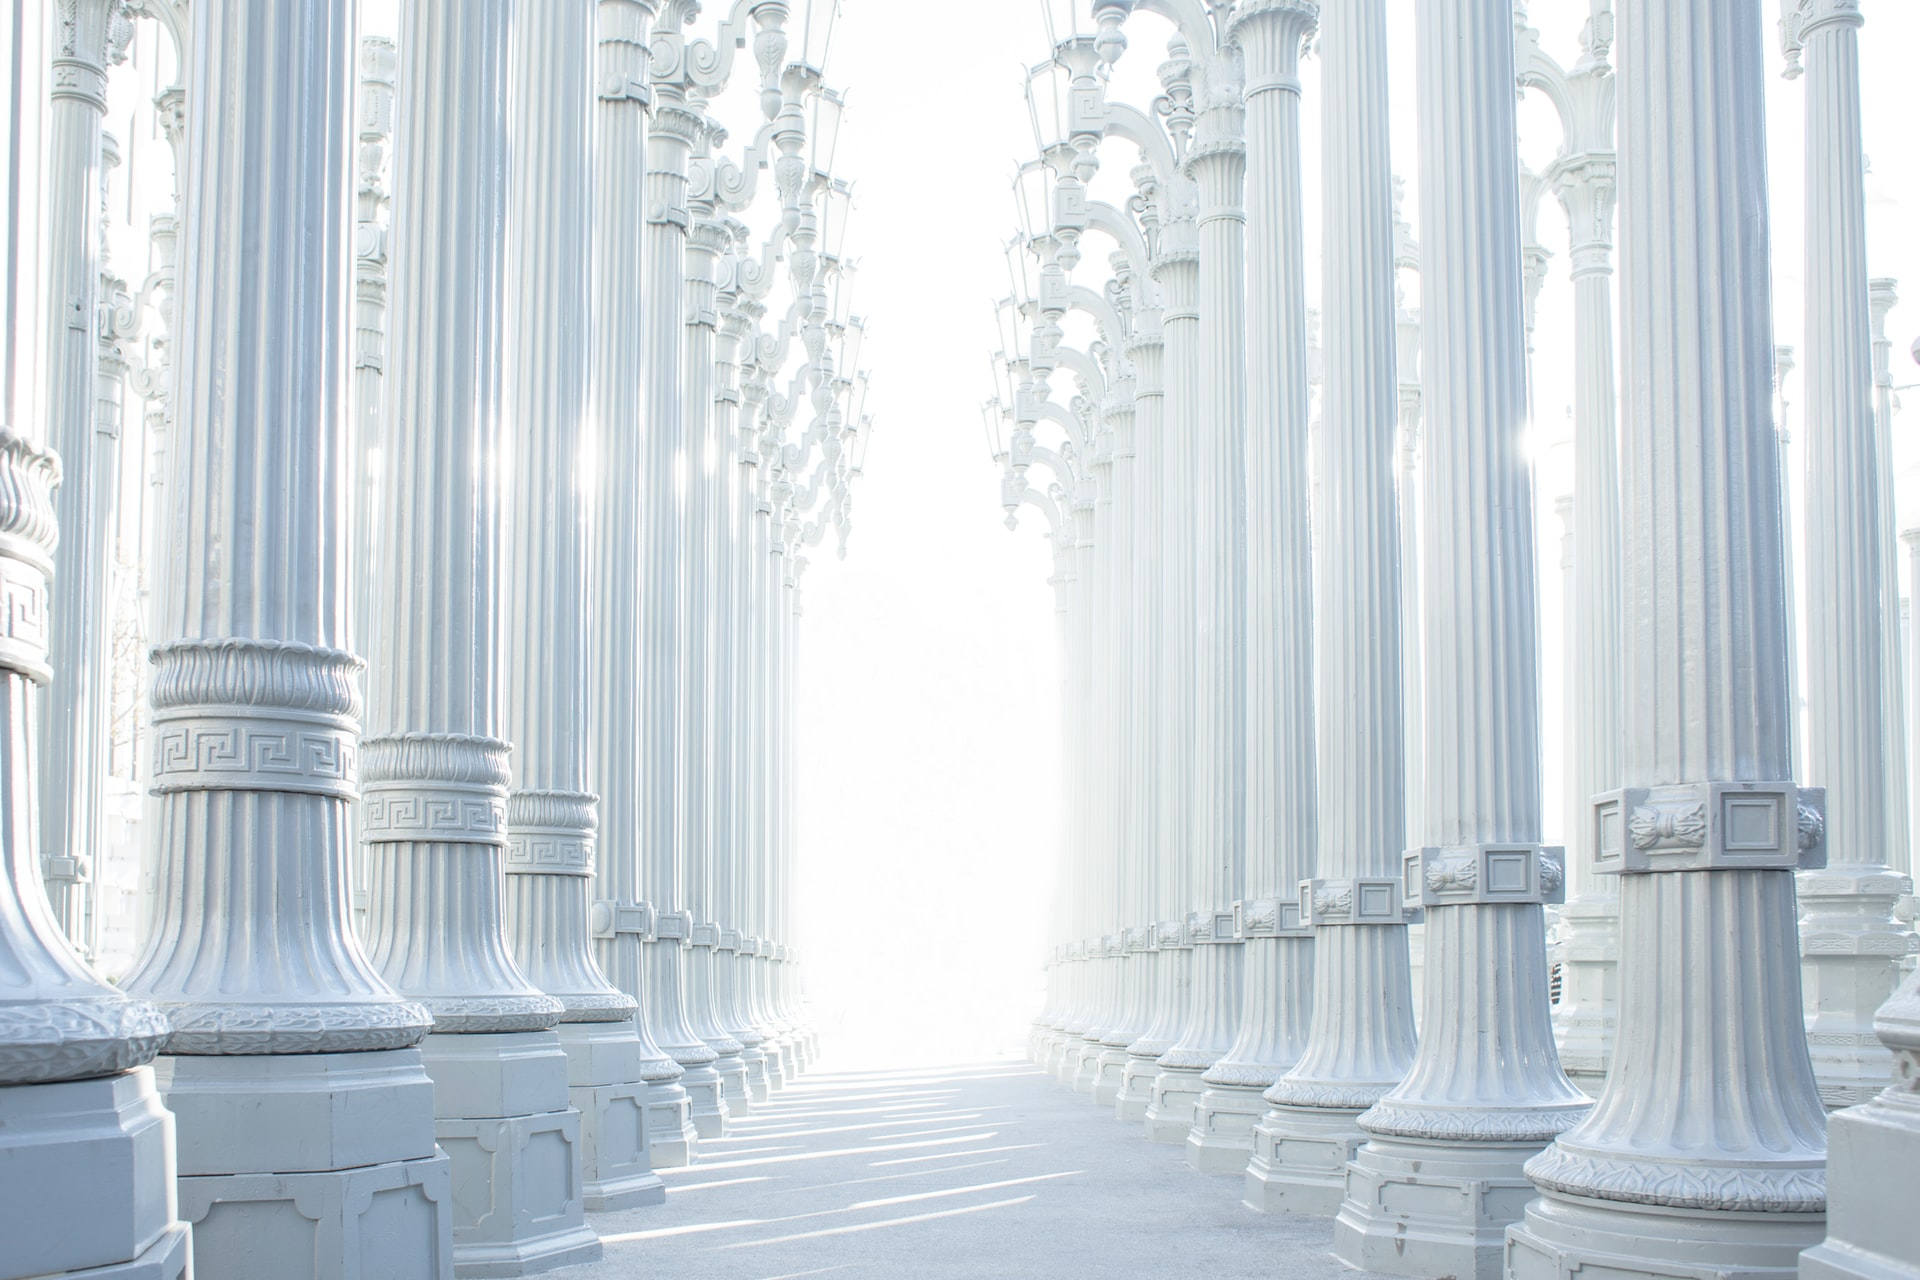
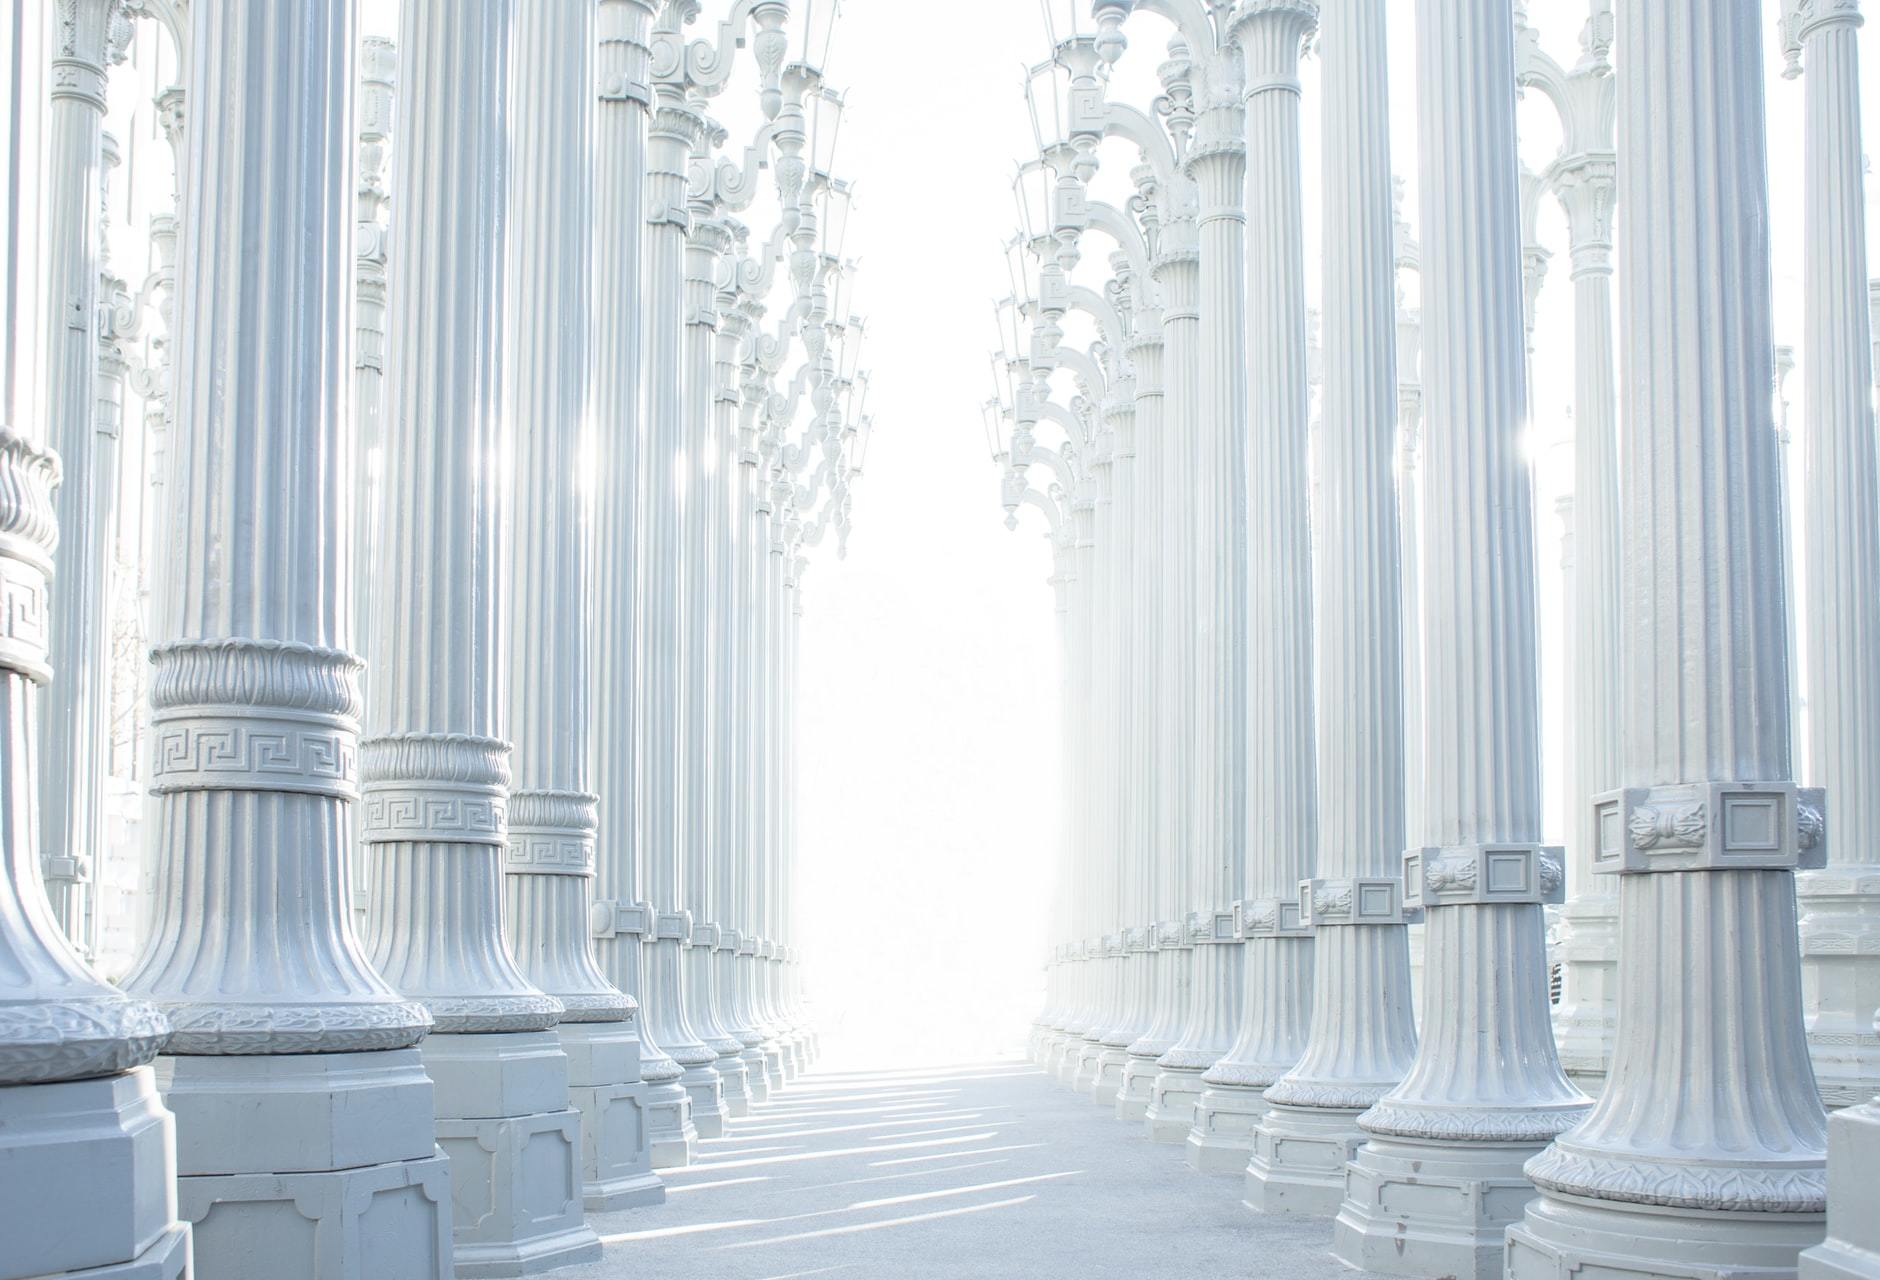
Resize Enterback.jpg

diff --git a/assets/css/main.css b/assets/css/main.css
@@ -1502,7 +1502,9 @@
 		border-radius: 4px;
 		text-align: center;
 		background-image: url(../../images/enterback.jpg);
-		background-position: 43% 50%;
+		background-position: center;
+		background-size: cover;
+
 	}
 
 		@media screen and (max-width: 736px) {
